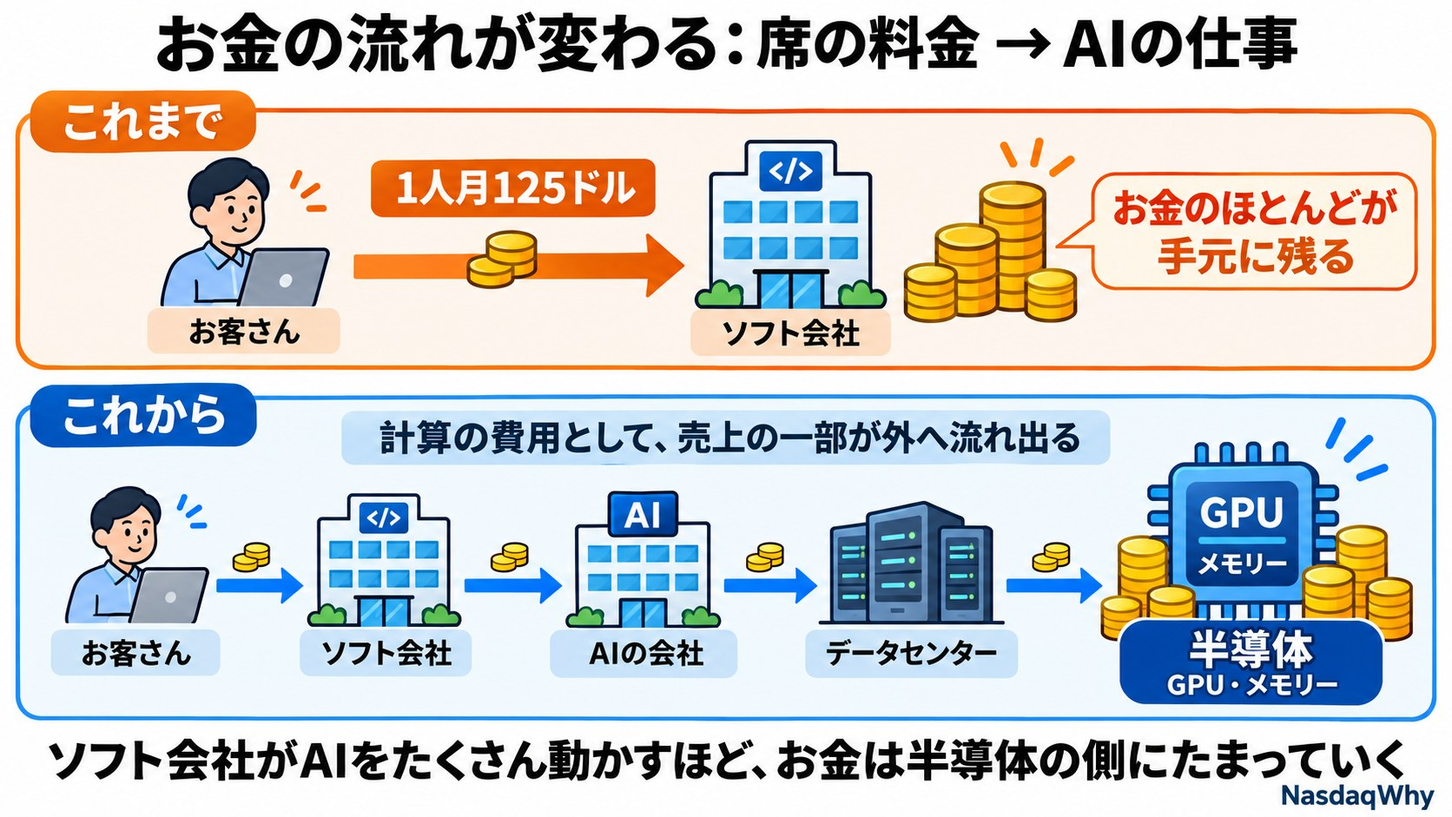
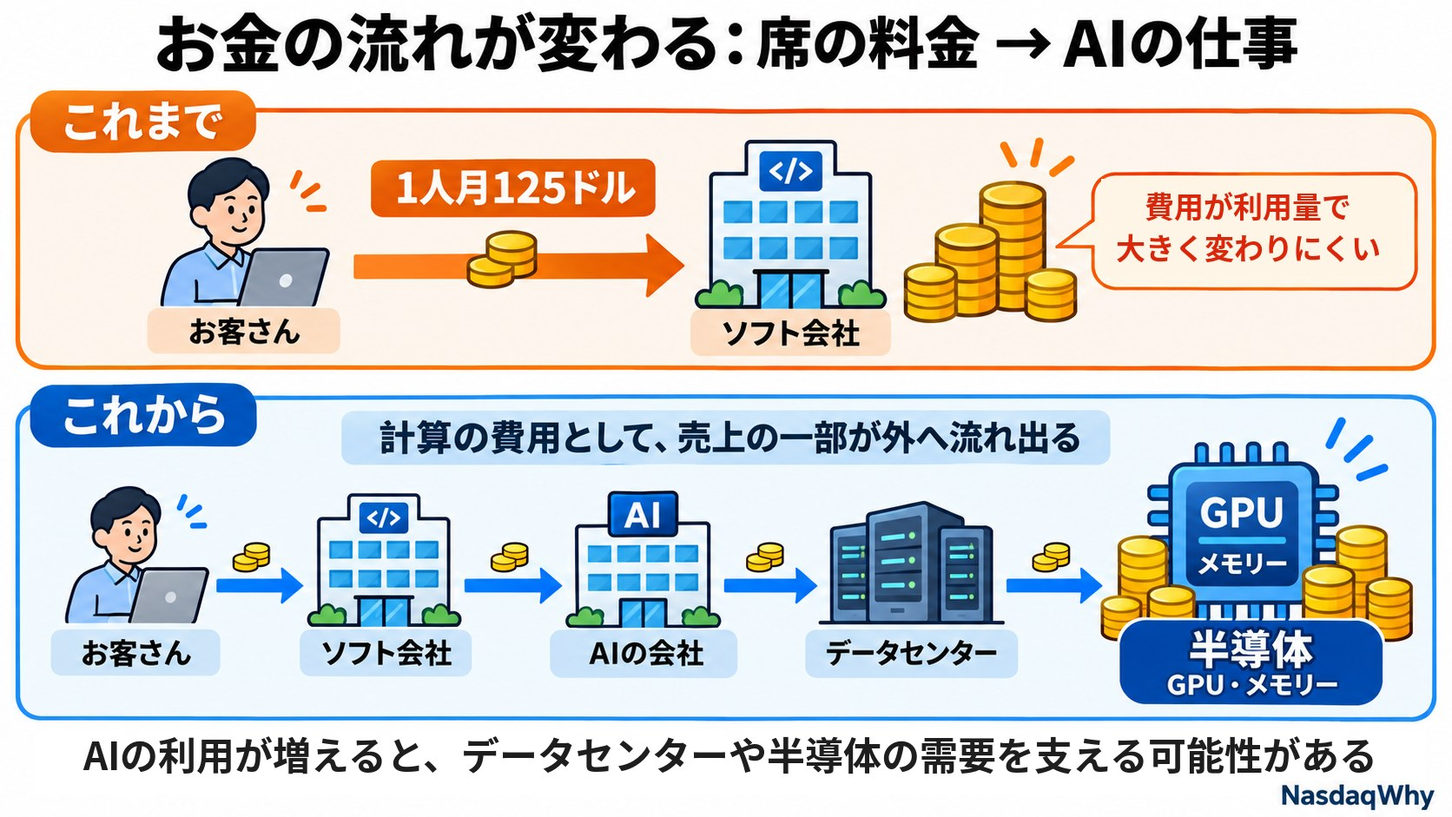
記事の一覧を更新

Changed region(s): [[0.0311, 0.8937, 0.9641, 0.9554], [0.7464, 0.2157, 0.9641, 0.339]]

diff --git a/feature/software-01/index.html b/feature/software-01/index.html
@@ -3,10 +3,10 @@
 <head>
 <meta charset="utf-8">
 <meta name="viewport" content="width=device-width,initial-scale=1">
-<title>AIは「1人分の席」を、何回働けば取り戻せる？――ソフト株の本当の勝負は「単価」だ｜NasdaqWhy</title>
-<meta name="description" content="AIが人の仕事を代わりにこなすと、業務ソフトの会社はもうかるのか、損をするのか。カギは「AIの仕事1回あたりの値段（単価）」。量は急に増える一方、1回の値段は下がっている。">
-<meta property="og:title" content="AIは「1人分の席」を、何回働けば取り戻せる？――ソフト株の本当の勝負は「単価」だ｜NasdaqWhy">
-<meta property="og:description" content="AIが人の仕事を代わりにこなすと、業務ソフトの会社はもうかるのか、損をするのか。カギは「AIの仕事1回あたりの値段（単価）」。">
+<title>AIの仕事が増えると、ソフト会社はもうかる？――「利用量・1回の売上・計算費用」で見る｜NasdaqWhy</title>
+<meta name="description" content="AIで業務ソフト会社がもうかるかは、利用量の増加だけでは決まらない。利用が増えたときに売上がどれだけ増え、そのための計算費用をどれだけ抑えられるか。セールスフォースの数字で考える。">
+<meta property="og:title" content="AIの仕事が増えると、ソフト会社はもうかる？――「利用量・1回の売上・計算費用」で見る｜NasdaqWhy">
+<meta property="og:description" content="AIで業務ソフト会社がもうかるかは、利用量の増加だけでは決まらない。利用が増えたときの売上と計算費用の差がカギ。">
 <meta property="og:type" content="article">
 <meta property="og:site_name" content="NasdaqWhy">
 <meta name="twitter:card" content="summary_large_image">
@@ -23,79 +23,84 @@
 
 <article>
 <p class="lead">特集｜ソフト株とAI（2026年11月14日）</p>
-<h1>AIは「1人分の席」を、何回働けば取り戻せる？――ソフト株の本当の勝負は「単価」だ</h1>
+<h1>AIの仕事が増えると、ソフト会社はもうかる？――「利用量・1回の売上・計算費用」で見る</h1>
 
 <h2>今日の疑問</h2>
 <p>AIが人の仕事を代わりにこなすと、業務ソフトの会社はもうかるのでしょうか、それとも損をするのでしょうか。2026年のソフト株は、この問いに大きく揺さぶられてきました。</p>
 
 <h2>先に答え</h2>
-<p>カギは「AIの仕事1回あたりの値段（単価）」です。AIの仕事は量が急に増える一方で、1回の値段は下がっています。勝つのは、値段が下がるより速く量を増やせる会社です。</p>
+<p>AIで業務ソフト会社がもうかるかは、利用量の増加だけでは決まりません。<b>利用が増えたときに売上がどれだけ増え、そのための計算費用をどれだけ抑えられるか</b>が重要です。見るべきは「利用量」「1回あたりの売上」「計算費用」の3つです。</p>
 
-<img src="seat_vs_ai.jpg" alt="1人分の席の料金125ドルは、AIの仕事 約1,040回分にあたる" style="width:100%;border-radius:10px">
+<img src="seat_vs_ai.jpg" alt="月125ドルの席の料金を、AIの作業量の単位あたりの売上の目安 約12セントで割ると約1,040になる（参考計算）" style="width:100%;border-radius:10px">
 
-<h2>1人分の席＝AIの仕事 約1,000回</h2>
-<p>セールスフォースの数字で計算してみます。AIエージェント用の席の料金は1人月125ドル。一方、AIエージェントの年間売上を作業の回数で割ると、1回あたり約12セントになります。</p>
-<p><b>125ドル÷0.12ドル＝約1,040回。</b></p>
-<p>人を1人減らした分の売上を取り戻すには、AIがその1人分の仕事として月に約1,000回、営業日なら毎日約50回働く必要があります。「AIが人を減らすとソフト会社は困る」という話は、この1,000回に届くかどうかの勝負なのです。</p>
-
-<h2>1回の値段は下がっている</h2>
-<p>セールスフォースでは、5〜7月期の作業の回数が32億回で、前の四半期から97%増えました。一方、AIエージェントの年間売上の伸びは、前の四半期から少なくとも25%ほどと推定されます。</p>
-<p>回数が約2倍になったのに、売上は1.25倍ほど。単純に割ると、1回あたりの売上は4割近く下がった計算です。ただし、この四半期から売上の数え方が変わったので、きれいな比較ではありません。あくまで目安です。</p>
-
-<h2>なぜ値段が下がるのか</h2>
+<h2>規模感をつかむ参考計算</h2>
+<p>セールスフォースの数字で、規模感をつかんでみます。</p>
 <ul>
-<li><b>使う側が上限をかける</b>：スノーフレークは、AIが勝手にたくさん動いて請求額が跳ね上がる「請求書ショック」に備え、利用者ごとの上限や料金の調整のしくみを入れると説明しています。量が増えすぎないよう、使う側にブレーキがかかります。</li>
-<li><b>AIを動かす費用が高い</b>：AIの仕事1回ごとに計算の費用がかかります。セールスフォース自身、今年アンソロピックに約3億ドルを払う見込みで、簡単な仕事は小さなAIに回す「中間の仕組み」が必要だと語っています。売る側も、1回あたりの費用を下げようと必死です。</li>
-<li><b>競争</b>：同じ仕事をこなすAIはどこでも作れます。値下げの圧力は強まる一方です。</li>
+<li><b>月125ドル</b>：AIエージェント（Agentforce）の機能を、人ごとに付けるときの料金です。業務ソフトの基本の席の料金とは別のものです。</li>
+<li><b>約12セント</b>：Agentforceの年間経常収益（ARR）15億ドルを4で割って1四半期分にし、5〜7月期のAIの作業量の単位（AWU）32億で割った目安です。15億ドル÷4÷32億≒0.117ドル。ARRは「その時点の継続収益を1年分に換算した数字」で、実際に計上した売上ではありません。AWUにはSlackでの利用も含まれます。実際の料金表の単価ではなく、おおまかな規模感です。</li>
+</ul>
+<p>この2つを割ると、125ドル÷0.12ドル≒約1,040単位になります。ただし、<b>違う料金のしくみを比べた参考計算</b>です。1人分の仕事の量や、失った売上を取り戻すのに必要な回数を示すものではありません。言えるのは「AIの作業1単位あたりの売上は、席の料金に比べてとても小さい。だから量がとても多くないと、売上の規模にならない」ということです。</p>
+
+<h2>利用量の伸びに、収益化は追いついているか</h2>
+<p>セールスフォースでは、5〜7月期のAWUが32億で、前の四半期から97%増えました。一方、AgentforceのARRの伸びは、前の四半期から少なくとも25%ほどと推定されています。</p>
+<p>仮にARRが25%増とすると、AWUあたりの概算値は1.25÷1.97−1≒約37%下がった計算です。ただし、この四半期からAgentforceのARRにSlackbotとHeadless 360が加わり、数え方が変わっています。<b>実際の値下げ率や、同じ条件での単価の下落を示す数字ではありません。</b></p>
+<p>大事なのは別の点です。売上は「量×単価」です。この仮定でも、量が97%増えた結果、売上は25%増えています。つまり売上で見れば、量の増加が単価の下落をすでに補っています。問題は、その売上を生むための<b>計算費用</b>です。</p>
+
+<h2>収益化を難しくする3つの要因</h2>
+<ul>
+<li><b>使う側が支出を抑える</b>：スノーフレークは、AIがたくさん動いて請求額が跳ね上がる「請求書ショック」に備えて、利用者ごとの上限や料金の調整のしくみを入れると説明しています。これは単価ではなく、利用量や支出の総額を抑える方向に働きます。</li>
+<li><b>AIを動かす費用</b>：AIの作業ごとに計算の費用がかかり、利益率を左右します。セールスフォース自身、今年アンソロピックに約3億ドルを払う見込みで、簡単な作業は小さなAIに回す「中間の仕組み」が必要だと語っています。</li>
+<li><b>競争</b>：似た機能を提供する会社が増えれば、値下げの圧力が強まります。</li>
 </ul>
 
-<h2>下がった分のお金はどこへ行く？</h2>
-<p>席の料金なら、ソフト会社の手元にほぼそのまま残りました。AIの仕事では、売上の一部がAIの計算費用として、AIの会社やデータセンター、その先のGPUやメモリーに流れていきます。</p>
-<p>つまり、ソフト株の不安は半導体の需要と裏表です。ソフト会社が苦しむほどAIをたくさん動かせば、そのお金は半導体の側にたまっていきます。</p>
+<h2>計算費用のお金はどこへ行く？</h2>
+<p>これまでの業務ソフトにも、サーバーやサポートなどの運用費用はあります。ただ、その費用は利用量で大きく変わりにくいものでした。AIでは、利用に応じた計算費用が利益を左右します。</p>
+<p>AIの利用が増えれば、クラウドやデータセンター、GPU・メモリーの需要を支える可能性があります。ただし、その支出がどの会社の利益になるかは、価格競争や設備の稼働率、計算の効率によって変わります。効率が上がれば、AIの利用が増えても半導体の購入が同じ割合で増えるとは限りません。</p>
 
-<img src="money_flow.jpg" alt="これまでは席の料金がソフト会社に残ったが、これからはAIの会社、データセンター、半導体へお金が流れる" style="width:100%;border-radius:10px">
+<img src="money_flow.jpg" alt="これまでは費用が利用量で変わりにくかったが、これからはAIの利用に応じて計算費用がAIの会社、データセンター、半導体へ流れる" style="width:100%;border-radius:10px">
 
-<h2>4社をこの物差しで見ると</h2>
+<h2>4社の今の数字</h2>
+<p>4社に共通の「1回あたりの売上」はありません。ここでは各社の今の数字を、3つの見方の手がかりとして並べます。</p>
 <ul>
-<li><b>セールスフォース</b>：量は急増、ただし単価は下落中。買収分を除いた売上の伸びは6.4%で、まだ量の伸びが単価の下落に勝ち切れていません。</li>
-<li><b>サービスナウ</b>：AIの契約は伸びています。それでも10〜12月期の残存契約の伸びの予想18.5%が嫌われ、10月29日に1日で-26.9%。量の伸びが全体を引っ張る力には、まだ見えていません。</li>
-<li><b>スノーフレーク</b>：使った分だけ課金なので、量の増加がそのまま売上になります。8〜10月期の製品売上は37〜38%増が会社の予想です。弱点は、上で見た利用の上限と計算の費用です。</li>
-<li><b>パランティア</b>：7〜9月期は米国の企業向け売上が148%増と、量の勝負では先頭にいます。ただし時価総額は今年の売上見通しの約50倍で、値段にはすでに大きな期待が入っています。</li>
+<li><b>セールスフォース</b>：AWUは急増しています。全社の売上の伸びは買収分を除くと約6.4%（SaaStrの試算）。全社の数字だけでは、AIの量と単価のどちらが効いているかは判断できません。</li>
+<li><b>サービスナウ</b>：AIの契約は伸びています。それでも、今後12か月に売上になる予定の契約残高（cRPO）の伸びの予想が18.5%にとどまり、10月29日に1日で-26.9%となりました。</li>
+<li><b>スノーフレーク</b>：使った分だけ課金なので、利用量が売上につながりやすいしくみです。8〜10月期の製品売上は37〜38%増が会社の予想です。ただし、値引きや処理の効率が変われば、利用量と売上は同じ割合では動きません。</li>
+<li><b>パランティア</b>：7〜9月期の米国の企業向け売上は148%増でした。時価総額は11月2日の終値で4,284億ドル、2026年の売上見通しの中央値85.32億ドルの約50倍です。値段にはすでに大きな期待が入っています。</li>
 </ul>
 
 <h2>金利5%がのしかかる</h2>
-<p>11/9〜11/13の週、米10年債の利回りは5%を超えました。売上の50倍のように将来の成長を先に買っている株ほど、金利の上昇で値段が下がりやすくなります。単価の勝負とは別の、外からの重しです。</p>
+<p>米10年債の利回りは、11月12日に5.10%、13日に5.15%と5%を超えました。売上の約50倍のように将来の成長を先に買っている株ほど、金利の上昇で値段が下がりやすくなります。中身とは別の、外からの重しです。</p>
 
 <h2>NasdaqWhyの見立て</h2>
-<p>AIは業務ソフトを消すのではなく、業務ソフトの「値段の付け方」を変えています。そして、1回あたりの値段は下がり続ける可能性が高いと見ます。</p>
-<p>だから見るべきは「AIの売上が何%伸びたか」ではなく、<b>作業の回数と売上の伸びの差</b>です。差が縮めば単価の下落が止まり、ソフト会社は量で稼げるようになります。差が広がり続ければ、AIのお金は半導体の側に流れ続けます。</p>
+<p>AIは業務ソフトを消すのではなく、業務ソフトの「稼ぎ方」を変えています。席の数で稼ぐ形から、AIの利用量で稼ぐ形へ移ると、<b>1回あたりの売上と計算費用の差</b>が利益を決めるようになります。</p>
+<p>だから「AIの売上が何%伸びたか」だけでは足りません。利用量を増やしながら、その差をどれだけ確保できるか。そこで勝負が決まると見ます。</p>
 
 <h2>考えられるシナリオ</h2>
 <ul>
-<li><b>量が単価に勝つ</b>：作業の回数と売上の伸びの差が縮む。ソフト株は「AIで稼げる」と見直される。</li>
-<li><b>単価の下落が続く</b>：回数ばかり増えて売上が追いつかない。ソフト株はさえず、得をするのはAIの計算を支える半導体やデータセンター。</li>
+<li><b>量も利益も伸びる</b>：利用量の増加に売上が追いつき、計算費用の効率も上がる。ソフト株は「AIで稼げる」と見直される。</li>
+<li><b>量は伸びるが、利益が薄い</b>：利用量と売上は増えるが、計算費用や値下げで利益率が下がる。AIの支出はクラウドや半導体の需要を支えるが、ソフト株はさえない。</li>
 <li><b>金利が主役</b>：中身に関係なく、利回り5%超えが続いて値段の高い株から売られる。</li>
 </ul>
 
-<h2>次に確かめること（ここで答え合わせ）</h2>
+<h2>次に確かめること</h2>
 <ul>
-<li><b>12/2（水）スノーフレークの決算</b>：AIの利用が増える中で粗利益率が下がれば、「計算の費用が利益を食う」シナリオが強まる。</li>
-<li><b>12月上旬　セールスフォースの決算</b>：作業の回数の伸びが売上の伸びの2倍以上のままなら、単価の下落が続いている証拠。</li>
-<li><b>12/9（水）FOMC</b>：利上げの幅が0.5%なら、値段の高いソフト株に逆風。</li>
-<li><b>来年2月　パランティアの決算</b>：米国の企業向けの新しい契約が再び伸びるか。</li>
+<li><b>12/2（水）米国市場終了後（日本時間12/3）スノーフレークの決算</b>：粗利益率の変化と、その理由。AIの計算費用なのか、製品の構成や値引き、クラウド費用なのか、会社の説明を確かめる。</li>
+<li><b>12月上旬（12/2ごろの見込み）セールスフォースの決算</b>：AWUとAgentforceのARRの伸び。数え方がそろっているかも合わせて確かめる。同じ条件で回数の伸びが売上の伸びを上回れば、1回あたりの売上は下がっている。</li>
+<li><b>12/8〜9（日本時間12/10未明に結果）FOMC</b>：仮に0.50ポイントの利上げが決まるなど、予想以上に引き締め的な決定や見通しなら、値段の高いソフト株に逆風。</li>
+<li><b>2027年2月ごろ予定　パランティアの決算</b>：米国の企業向けの新しい契約が再び伸びるか。</li>
 </ul>
 
 <h2>出典</h2>
 <ul style="font-size:13px">
 <li><a href="https://saastr.com/5-interesting-learnings-from-salesforce-at-45-billion-arr-14-crpo-growth-6-organic-growth-and-2-53-of-eps-from-its-anthropic-stake" target="_blank" rel="noopener">SaaStr：セールスフォースの5〜7月期の分析</a></li>
-<li><a href="https://www.alpha-sense.com/earnings/crm/" target="_blank" rel="noopener">AlphaSense：セールスフォース決算の要点</a></li>
+<li><a href="https://www.salesforce.com/au/news/linked-content/salesforce-delivers-record-second-quarter-fiscal-2027-results/" target="_blank" rel="noopener">セールスフォース：2027年度第2四半期の決算発表</a></li>
 <li><a href="https://www.indmoney.com/blog/us-stocks/salesforce-q2-earnings-analysis-why-crm-stock-jumped" target="_blank" rel="noopener">INDmoney：セールスフォース決算の分析</a></li>
 <li><a href="https://www.businessinsider.jp/article/2605-marc-benioff-salesforce-anthropic-spend-tokens-slack/" target="_blank" rel="noopener">Business Insider Japan：ベニオフCEOとアンソロピックへの支出</a></li>
 <li><a href="https://www.marketbeat.com/instant-alerts/snowflake-nysesnow-issues-earnings-results-misses-estimates-by-106-eps-2026-02-25/" target="_blank" rel="noopener">MarketBeat：スノーフレーク決算（利用の上限について）</a></li>
 <li><a href="https://www.tikr.com/blog/snowflake-is-20-off-its-september-high-its-december-2-report-must-prove-ai-growth-sticks" target="_blank" rel="noopener">TIKR：スノーフレークの12/2決算の注目点</a></li>
 <li><a href="https://www.trefis.com/stock/now/articles2/621573/what-is-behind-the-move-in-servicenow-stock/2026-10-30" target="_blank" rel="noopener">Trefis：サービスナウの急落</a></li>
 <li><a href="https://coinpaper.com/38259/palantir-stock-drops-despite-blowout-q3-earnings-and-96-revenue-growth" target="_blank" rel="noopener">Coinpaper：パランティアの7〜9月期決算</a></li>
-<li><a href="https://fourweekmba.com/ai-palantir-beat-by-149m-at-50x-sales-shares-swung-8-6/" target="_blank" rel="noopener">FourWeekMBA：パランティアの株価と売上の倍率</a></li>
+<li><a href="https://fourweekmba.com/ai-palantir-beat-by-149m-at-50x-sales-shares-swung-8-6/" target="_blank" rel="noopener">FourWeekMBA：パランティアの時価総額と売上見通し</a></li>
 </ul>
 <p><a href="https://note.com/nasdaqwhy" target="_blank" rel="noopener">note：https://note.com/nasdaqwhy</a></p>
 <div class="notice">※情報提供のみ。投資判断はご自身でお願いします。※Nasdaq Whyは独立した情報メディアです。Nasdaq, Inc.およびその関連会社とは関係ありません。</div>

diff --git a/index.html b/index.html
@@ -20,7 +20,7 @@
 <span class="tagline">米国株は、なぜ動いた？ 毎朝の日本語解説</span>
 </div></header>
 <main><div class="wrap">
-<h1 style="font-size:20px;margin:0 0 4px">米国株 毎朝の解説</h1><p class="lead">ナスダック・S&amp;P500・ダウの前日の動きと「なぜ動いたか」を、海外ニュースをもとに日本語でまとめています。日本時間の朝に更新します。</p><h2 style="font-size:17px;margin:18px 0 6px">米国経済のまとめ（毎週土曜）</h2><ul class="list"><li><a href="weekly/2026-11-07/index.html"><div class="d">米国経済のまとめ（毎週土曜）</div><div class="t">11/2〜11/6の米国経済：半導体株が急落、市場に強い恐怖</div></a></li></ul><h2 style="font-size:17px;margin:18px 0 6px">半導体の特集（毎週日曜）</h2><ul class="list"><li><a href="feature/software-01/index.html"><div class="d">特集　ソフト株とAI</div><div class="t">AIは「1人分の席」を、何回働けば取り戻せる？――ソフト株の本当の勝負は「単価」だ</div></a></li><li><a href="feature/semis-01/index.html"><div class="d">半導体の特集　第1回</div><div class="t">半導体の全体像：素材からクラウドまで</div></a></li></ul><h2 style="font-size:17px;margin:18px 0 6px">決算の解説</h2><ul class="list"><li><a href="earnings/XE-2026Q3/index.html"><div class="d">X-energyの決算（2026年7〜9月期）</div><div class="t">売上は2倍以上なのに、なぜ営業赤字は広がった？――国の実証事業の作業と、上場のあとの株の報酬</div></a></li><li><a href="earnings/AMAT-FY26Q4/index.html"><div class="d">アプライド・マテリアルズの決算（2026年8〜10月期（2026年度第4四半期））</div><div class="t">売上は53%増なのに、なぜ純利益は43%増どまり？――投資先の株の評価損と、中国向けの割合の低下</div></a></li><li><a href="earnings/3436-2026Q3/index.html"><div class="d">SUMCOの決算（2026年7〜9月期）</div><div class="t">ウェハーは足りないのに、なぜもうからない？――重い減価償却と、すぐには上がらない値段</div></a></li><li><a href="earnings/6981-2026Q3/index.html"><div class="d">村田製作所の決算（2026年7〜9月期）</div><div class="t">スマホは弱いのに、なぜ過去最高？――データセンター向けが2倍に</div></a></li><li><a href="earnings/285A-2026Q3/index.html"><div class="d">キオクシアの決算（2026年7〜9月期）</div><div class="t">売上は5.5倍なのに、なぜ株価は急落した？――NANDの値上がり一服の見通し</div></a></li><li><a href="earnings/8035-2026Q3/index.html"><div class="d">東京エレクトロンの決算（2026年7〜9月期）</div><div class="t">売上48%増、初の通期予想は営業利益1兆1,690億円</div></a></li><li><a href="earnings/4062-2026Q3/index.html"><div class="d">イビデンの決算（2026年7〜9月期）</div><div class="t">売上42%増、営業利益は2.2倍。通期予想を再び引き上げ</div></a></li><li><a href="earnings/GOOGL-2026Q3/index.html"><div class="d">アルファベットの決算（2026年7〜9月期）</div><div class="t">クラウドがほぼ倍増、設備投資は前年の約2.1倍</div></a></li></ul><p style="margin:4px 0 0"><a href="earnings/index.html">決算の解説をすべて見る →</a></p><h2 style="font-size:17px;margin:18px 0 6px">毎朝の解説</h2><ul class="list"><li><a href="2026-11-13/index.html"><div class="d">2026年11月13日（金）の米国市場<span class="badge">大幅変動</span></div><div class="t">エヌビディアCEO辞任で急騰したAMD、なぜ一転急落した？</div><div class="n"><span>ナスダック <span class="down">-0.91%</span></span><span>S&amp;P500 <span class="down">-0.40%</span></span><span>ダウ <span class="up">+0.10%</span></span></div></a></li><li><a href="2026-11-12/index.html"><div class="d">2026年11月12日（木）の米国市場<span class="badge">大幅変動</span></div><div class="t">エヌビディアCEO辞任、なぜライバルのAMDは急伸した？</div><div class="n"><span>ナスダック <span class="down">-0.39%</span></span><span>S&amp;P500 <span class="down">-0.35%</span></span><span>ダウ <span class="down">-0.36%</span></span></div></a></li><li><a href="2026-11-11/index.html"><div class="d">2026年11月11日（水）の米国市場<span class="badge">大幅変動</span></div><div class="t">物価が強めでも、半導体株はなぜ大きく買われた？</div><div class="n"><span>ナスダック <span class="up">+1.60%</span></span><span>S&amp;P500 <span class="up">+1.31%</span></span><span>ダウ <span class="up">+0.49%</span></span></div></a></li><li><a href="2026-11-10/index.html"><div class="d">2026年11月10日（火）の米国市場<span class="badge">大幅変動</span></div><div class="t">エヌビディアがCEOを巡る疑惑で急落した。ハイテク株が重荷となり、主要指数はそろって下げた。</div><div class="n"><span>ナスダック <span class="down">-0.74%</span></span><span>S&amp;P500 <span class="down">-0.38%</span></span><span>ダウ <span class="down">-0.30%</span></span></div></a></li><li><a href="2026-11-09/index.html"><div class="d">2026年11月9日（月）の米国市場<span class="badge">大幅変動</span></div><div class="t">主要指数はそろって大幅高だ。先週のAI関連株急落から買い戻しが広がり、AMDなど半導体株が相場を押し上げた。</div><div class="n"><span>ナスダック <span class="up">+2.74%</span></span><span>S&amp;P500 <span class="up">+2.35%</span></span><span>ダウ <span class="up">+2.15%</span></span></div></a></li><li><a href="2026-11-06/index.html"><div class="d">2026年11月6日（金）の米国市場<span class="badge">大幅変動</span></div><div class="t">前日に急落した半導体株が買い戻され、ナスダック総合は+1.09%と反発した。ダウ平均は-0.46%と続落した。</div><div class="n"><span>ナスダック <span class="up">+1.09%</span></span><span>S&amp;P500 <span class="up">+0.31%</span></span><span>ダウ <span class="down">-0.46%</span></span></div></a></li><li><a href="2026-11-05/index.html"><div class="d">2026年11月5日（木）の米国市場<span class="badge">大幅変動</span></div><div class="t">半導体株の急落が相場全体に広がり、ナスダック総合は-5.52%と大きく下げた</div><div class="n"><span>ナスダック <span class="down">-5.52%</span></span><span>S&amp;P500 <span class="down">-4.36%</span></span><span>ダウ <span class="down">-3.44%</span></span></div></a></li><li><a href="2026-11-04/index.html"><div class="d">2026年11月4日（水）の米国市場<span class="badge">大幅変動</span></div><div class="t">中間選挙後に大型ハイテク株が買われ、ダウ平均は+3.03%と大幅高。半導体株は売られた。</div><div class="n"><span>ナスダック <span class="up">+1.44%</span></span><span>S&amp;P500 <span class="up">+1.58%</span></span><span>ダウ <span class="up">+3.03%</span></span></div></a></li><li><a href="2026-11-03/index.html"><div class="d">2026年11月3日（火）の米国市場<span class="badge">大幅変動</span></div><div class="t">中間選挙の投票日、ハイテク株高でナスダック総合は+0.83%と上げ、ダウ平均は-0.38%と下落した</div><div class="n"><span>ナスダック <span class="up">+0.83%</span></span><span>S&amp;P500 <span class="up">+0.36%</span></span><span>ダウ <span class="down">-0.38%</span></span></div></a></li><li><a href="2026-11-02/index.html"><div class="d">2026年11月2日（月）の米国市場<span class="badge">大幅変動</span></div><div class="t">ハイテク株が売られ、ナスダック総合は-1.07%。ダウ平均は+0.41%と上昇し、明暗が分かれた。</div><div class="n"><span>ナスダック <span class="down">-1.07%</span></span><span>S&amp;P500 <span class="down">-0.51%</span></span><span>ダウ <span class="up">+0.41%</span></span></div></a></li><li><a href="2026-10-30/index.html"><div class="d">2026年10月30日（金）の米国市場<span class="badge">大幅変動</span></div><div class="t">インテルの弱い見通しをきっかけに半導体株が売られ、ナスダック総合は-2.86%と下落しました。</div><div class="n"><span>ナスダック <span class="down">-2.86%</span></span><span>S&amp;P500 <span class="down">-1.82%</span></span><span>ダウ <span class="down">-1.09%</span></span></div></a></li></ul>
+<h1 style="font-size:20px;margin:0 0 4px">米国株 毎朝の解説</h1><p class="lead">ナスダック・S&amp;P500・ダウの前日の動きと「なぜ動いたか」を、海外ニュースをもとに日本語でまとめています。日本時間の朝に更新します。</p><h2 style="font-size:17px;margin:18px 0 6px">米国経済のまとめ（毎週土曜）</h2><ul class="list"><li><a href="weekly/2026-11-07/index.html"><div class="d">米国経済のまとめ（毎週土曜）</div><div class="t">11/2〜11/6の米国経済：半導体株が急落、市場に強い恐怖</div></a></li></ul><h2 style="font-size:17px;margin:18px 0 6px">半導体の特集（毎週日曜）</h2><ul class="list"><li><a href="feature/software-01/index.html"><div class="d">特集　ソフト株とAI</div><div class="t">AIの仕事が増えると、ソフト会社はもうかる？――「利用量・1回の売上・計算費用」で見る</div></a></li><li><a href="feature/semis-01/index.html"><div class="d">半導体の特集　第1回</div><div class="t">半導体の全体像：素材からクラウドまで</div></a></li></ul><h2 style="font-size:17px;margin:18px 0 6px">決算の解説</h2><ul class="list"><li><a href="earnings/XE-2026Q3/index.html"><div class="d">X-energyの決算（2026年7〜9月期）</div><div class="t">売上は2倍以上なのに、なぜ営業赤字は広がった？――国の実証事業の作業と、上場のあとの株の報酬</div></a></li><li><a href="earnings/AMAT-FY26Q4/index.html"><div class="d">アプライド・マテリアルズの決算（2026年8〜10月期（2026年度第4四半期））</div><div class="t">売上は53%増なのに、なぜ純利益は43%増どまり？――投資先の株の評価損と、中国向けの割合の低下</div></a></li><li><a href="earnings/3436-2026Q3/index.html"><div class="d">SUMCOの決算（2026年7〜9月期）</div><div class="t">ウェハーは足りないのに、なぜもうからない？――重い減価償却と、すぐには上がらない値段</div></a></li><li><a href="earnings/6981-2026Q3/index.html"><div class="d">村田製作所の決算（2026年7〜9月期）</div><div class="t">スマホは弱いのに、なぜ過去最高？――データセンター向けが2倍に</div></a></li><li><a href="earnings/285A-2026Q3/index.html"><div class="d">キオクシアの決算（2026年7〜9月期）</div><div class="t">売上は5.5倍なのに、なぜ株価は急落した？――NANDの値上がり一服の見通し</div></a></li><li><a href="earnings/8035-2026Q3/index.html"><div class="d">東京エレクトロンの決算（2026年7〜9月期）</div><div class="t">売上48%増、初の通期予想は営業利益1兆1,690億円</div></a></li><li><a href="earnings/4062-2026Q3/index.html"><div class="d">イビデンの決算（2026年7〜9月期）</div><div class="t">売上42%増、営業利益は2.2倍。通期予想を再び引き上げ</div></a></li><li><a href="earnings/GOOGL-2026Q3/index.html"><div class="d">アルファベットの決算（2026年7〜9月期）</div><div class="t">クラウドがほぼ倍増、設備投資は前年の約2.1倍</div></a></li></ul><p style="margin:4px 0 0"><a href="earnings/index.html">決算の解説をすべて見る →</a></p><h2 style="font-size:17px;margin:18px 0 6px">毎朝の解説</h2><ul class="list"><li><a href="2026-11-13/index.html"><div class="d">2026年11月13日（金）の米国市場<span class="badge">大幅変動</span></div><div class="t">エヌビディアCEO辞任で急騰したAMD、なぜ一転急落した？</div><div class="n"><span>ナスダック <span class="down">-0.91%</span></span><span>S&amp;P500 <span class="down">-0.40%</span></span><span>ダウ <span class="up">+0.10%</span></span></div></a></li><li><a href="2026-11-12/index.html"><div class="d">2026年11月12日（木）の米国市場<span class="badge">大幅変動</span></div><div class="t">エヌビディアCEO辞任、なぜライバルのAMDは急伸した？</div><div class="n"><span>ナスダック <span class="down">-0.39%</span></span><span>S&amp;P500 <span class="down">-0.35%</span></span><span>ダウ <span class="down">-0.36%</span></span></div></a></li><li><a href="2026-11-11/index.html"><div class="d">2026年11月11日（水）の米国市場<span class="badge">大幅変動</span></div><div class="t">物価が強めでも、半導体株はなぜ大きく買われた？</div><div class="n"><span>ナスダック <span class="up">+1.60%</span></span><span>S&amp;P500 <span class="up">+1.31%</span></span><span>ダウ <span class="up">+0.49%</span></span></div></a></li><li><a href="2026-11-10/index.html"><div class="d">2026年11月10日（火）の米国市場<span class="badge">大幅変動</span></div><div class="t">エヌビディアがCEOを巡る疑惑で急落した。ハイテク株が重荷となり、主要指数はそろって下げた。</div><div class="n"><span>ナスダック <span class="down">-0.74%</span></span><span>S&amp;P500 <span class="down">-0.38%</span></span><span>ダウ <span class="down">-0.30%</span></span></div></a></li><li><a href="2026-11-09/index.html"><div class="d">2026年11月9日（月）の米国市場<span class="badge">大幅変動</span></div><div class="t">主要指数はそろって大幅高だ。先週のAI関連株急落から買い戻しが広がり、AMDなど半導体株が相場を押し上げた。</div><div class="n"><span>ナスダック <span class="up">+2.74%</span></span><span>S&amp;P500 <span class="up">+2.35%</span></span><span>ダウ <span class="up">+2.15%</span></span></div></a></li><li><a href="2026-11-06/index.html"><div class="d">2026年11月6日（金）の米国市場<span class="badge">大幅変動</span></div><div class="t">前日に急落した半導体株が買い戻され、ナスダック総合は+1.09%と反発した。ダウ平均は-0.46%と続落した。</div><div class="n"><span>ナスダック <span class="up">+1.09%</span></span><span>S&amp;P500 <span class="up">+0.31%</span></span><span>ダウ <span class="down">-0.46%</span></span></div></a></li><li><a href="2026-11-05/index.html"><div class="d">2026年11月5日（木）の米国市場<span class="badge">大幅変動</span></div><div class="t">半導体株の急落が相場全体に広がり、ナスダック総合は-5.52%と大きく下げた</div><div class="n"><span>ナスダック <span class="down">-5.52%</span></span><span>S&amp;P500 <span class="down">-4.36%</span></span><span>ダウ <span class="down">-3.44%</span></span></div></a></li><li><a href="2026-11-04/index.html"><div class="d">2026年11月4日（水）の米国市場<span class="badge">大幅変動</span></div><div class="t">中間選挙後に大型ハイテク株が買われ、ダウ平均は+3.03%と大幅高。半導体株は売られた。</div><div class="n"><span>ナスダック <span class="up">+1.44%</span></span><span>S&amp;P500 <span class="up">+1.58%</span></span><span>ダウ <span class="up">+3.03%</span></span></div></a></li><li><a href="2026-11-03/index.html"><div class="d">2026年11月3日（火）の米国市場<span class="badge">大幅変動</span></div><div class="t">中間選挙の投票日、ハイテク株高でナスダック総合は+0.83%と上げ、ダウ平均は-0.38%と下落した</div><div class="n"><span>ナスダック <span class="up">+0.83%</span></span><span>S&amp;P500 <span class="up">+0.36%</span></span><span>ダウ <span class="down">-0.38%</span></span></div></a></li><li><a href="2026-11-02/index.html"><div class="d">2026年11月2日（月）の米国市場<span class="badge">大幅変動</span></div><div class="t">ハイテク株が売られ、ナスダック総合は-1.07%。ダウ平均は+0.41%と上昇し、明暗が分かれた。</div><div class="n"><span>ナスダック <span class="down">-1.07%</span></span><span>S&amp;P500 <span class="down">-0.51%</span></span><span>ダウ <span class="up">+0.41%</span></span></div></a></li><li><a href="2026-10-30/index.html"><div class="d">2026年10月30日（金）の米国市場<span class="badge">大幅変動</span></div><div class="t">インテルの弱い見通しをきっかけに半導体株が売られ、ナスダック総合は-2.86%と下落しました。</div><div class="n"><span>ナスダック <span class="down">-2.86%</span></span><span>S&amp;P500 <span class="down">-1.82%</span></span><span>ダウ <span class="down">-1.09%</span></span></div></a></li></ul>
 </div></main>
 <footer><div class="wrap">
 <p>※情報提供のみ。投資判断はご自身でお願いします。※Nasdaq Whyは独立した情報メディアです。Nasdaq, Inc.およびその関連会社とは関係ありません。</p>
